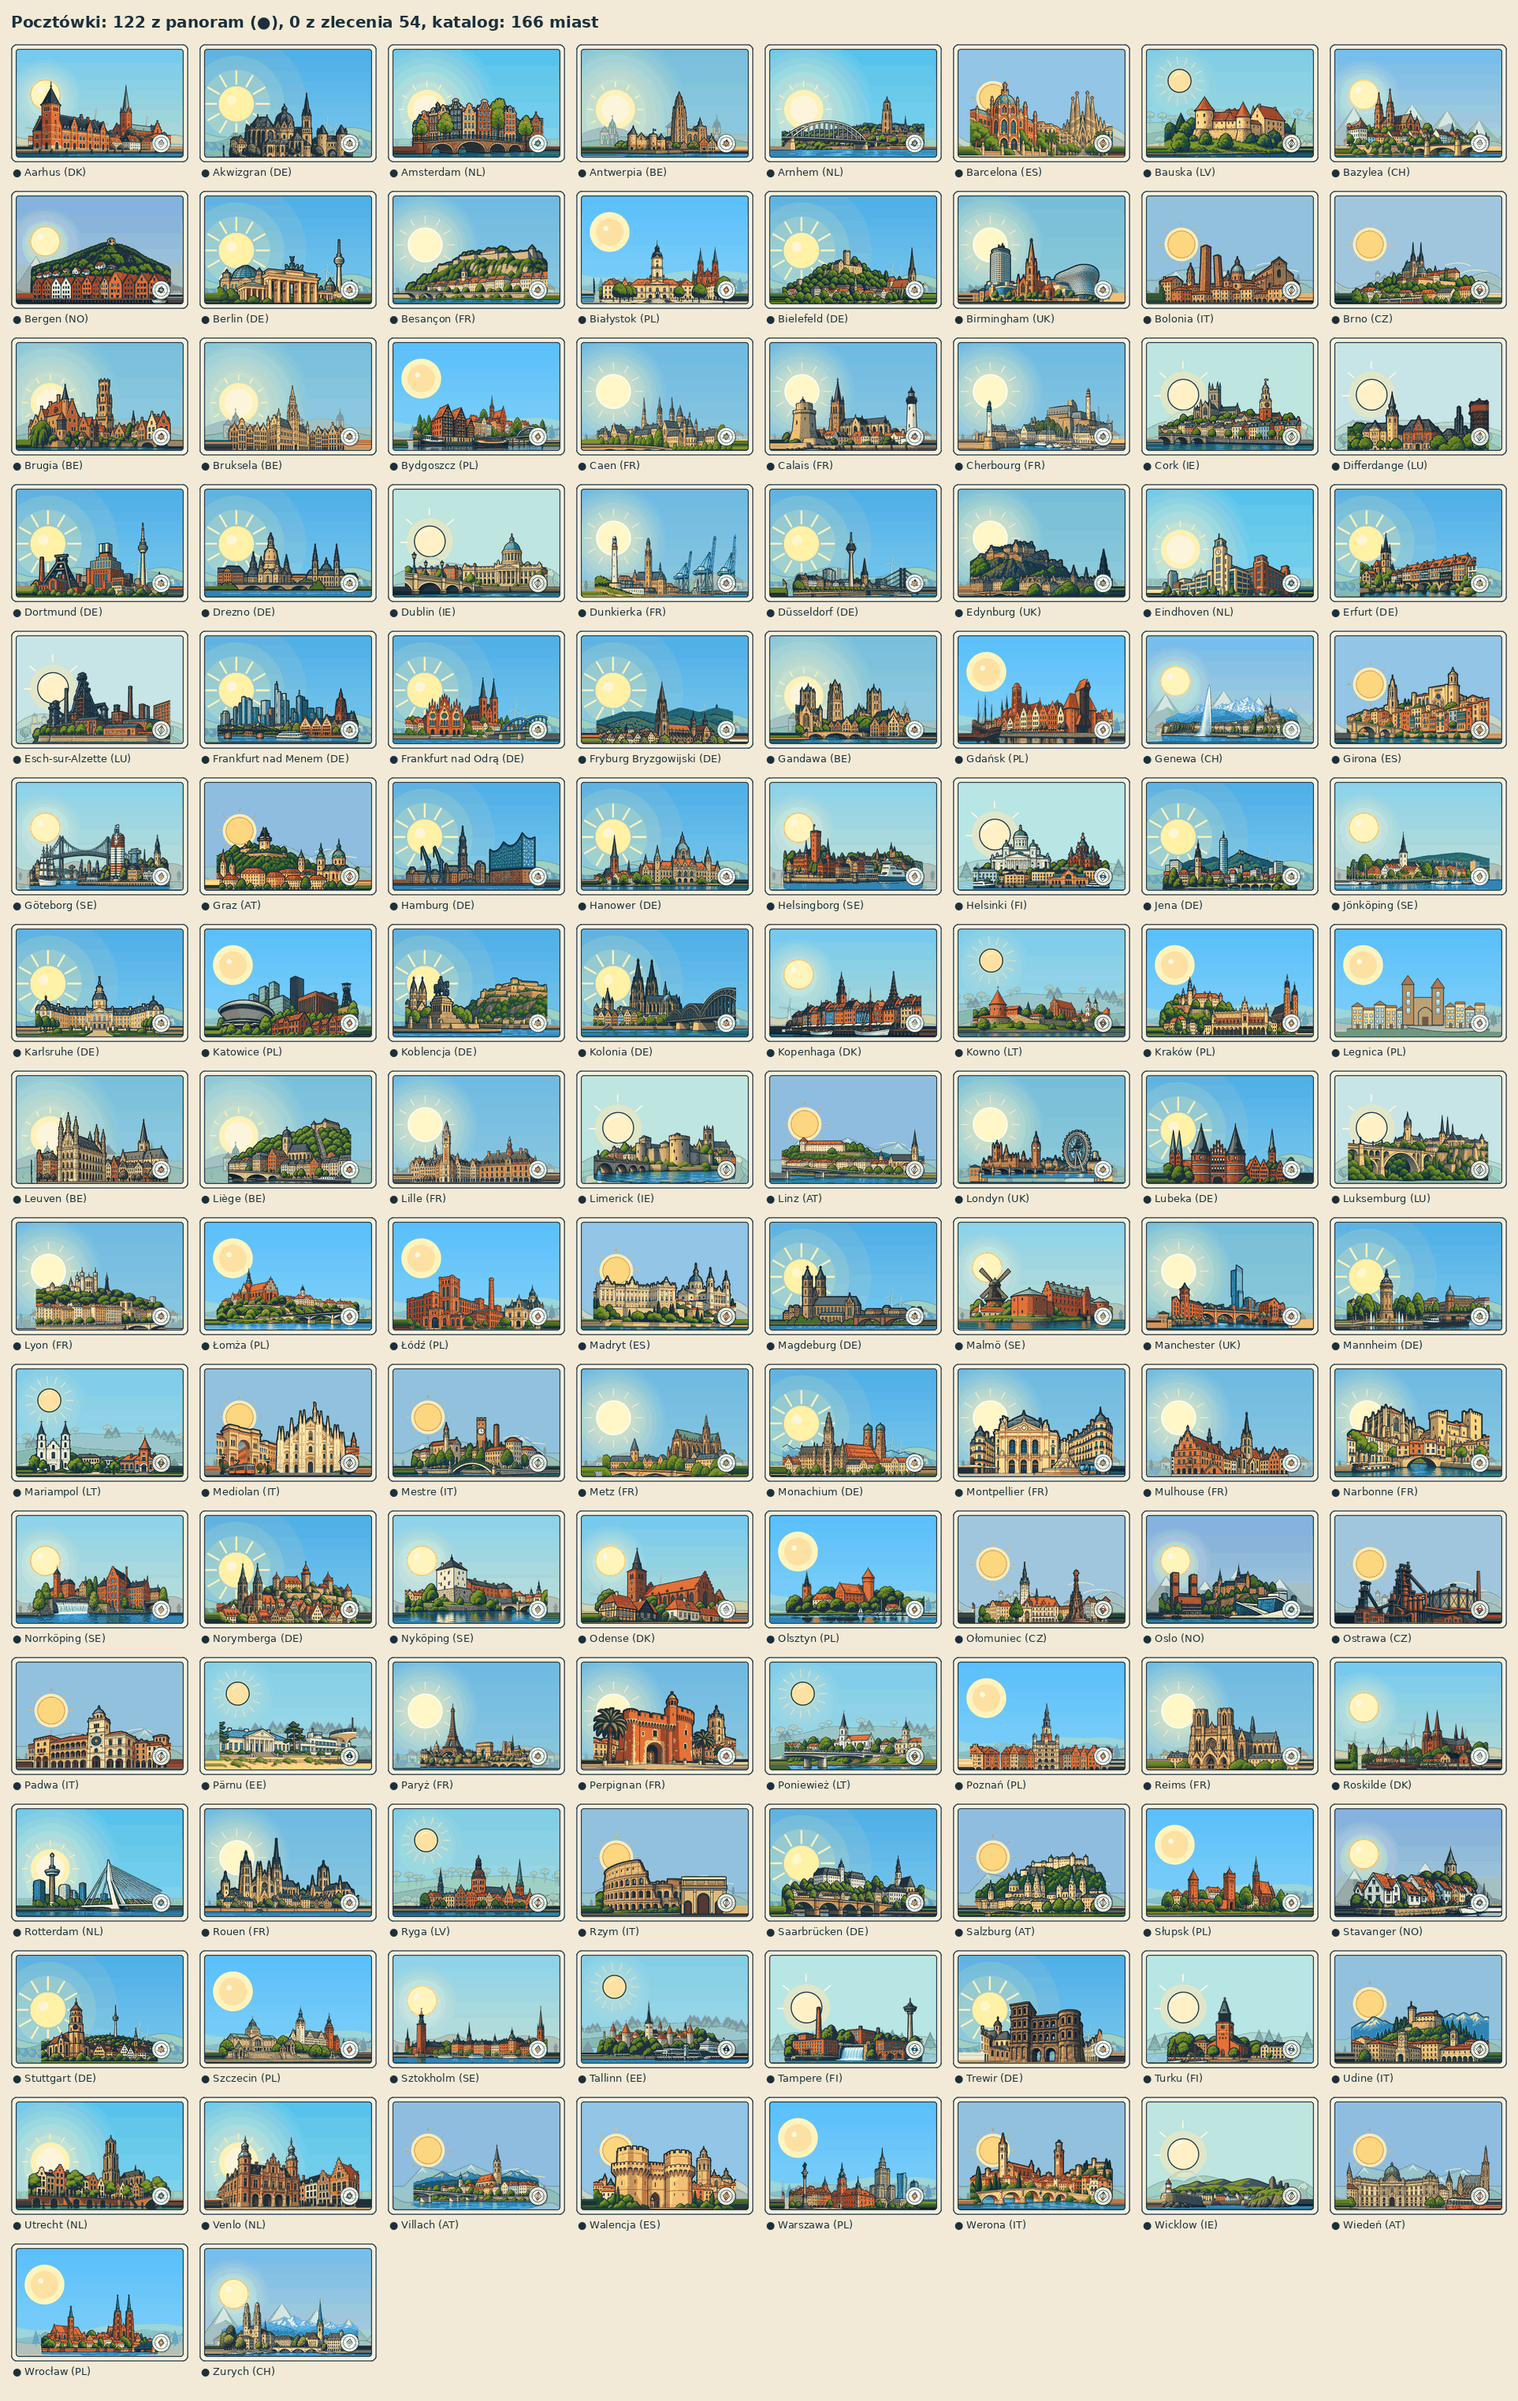
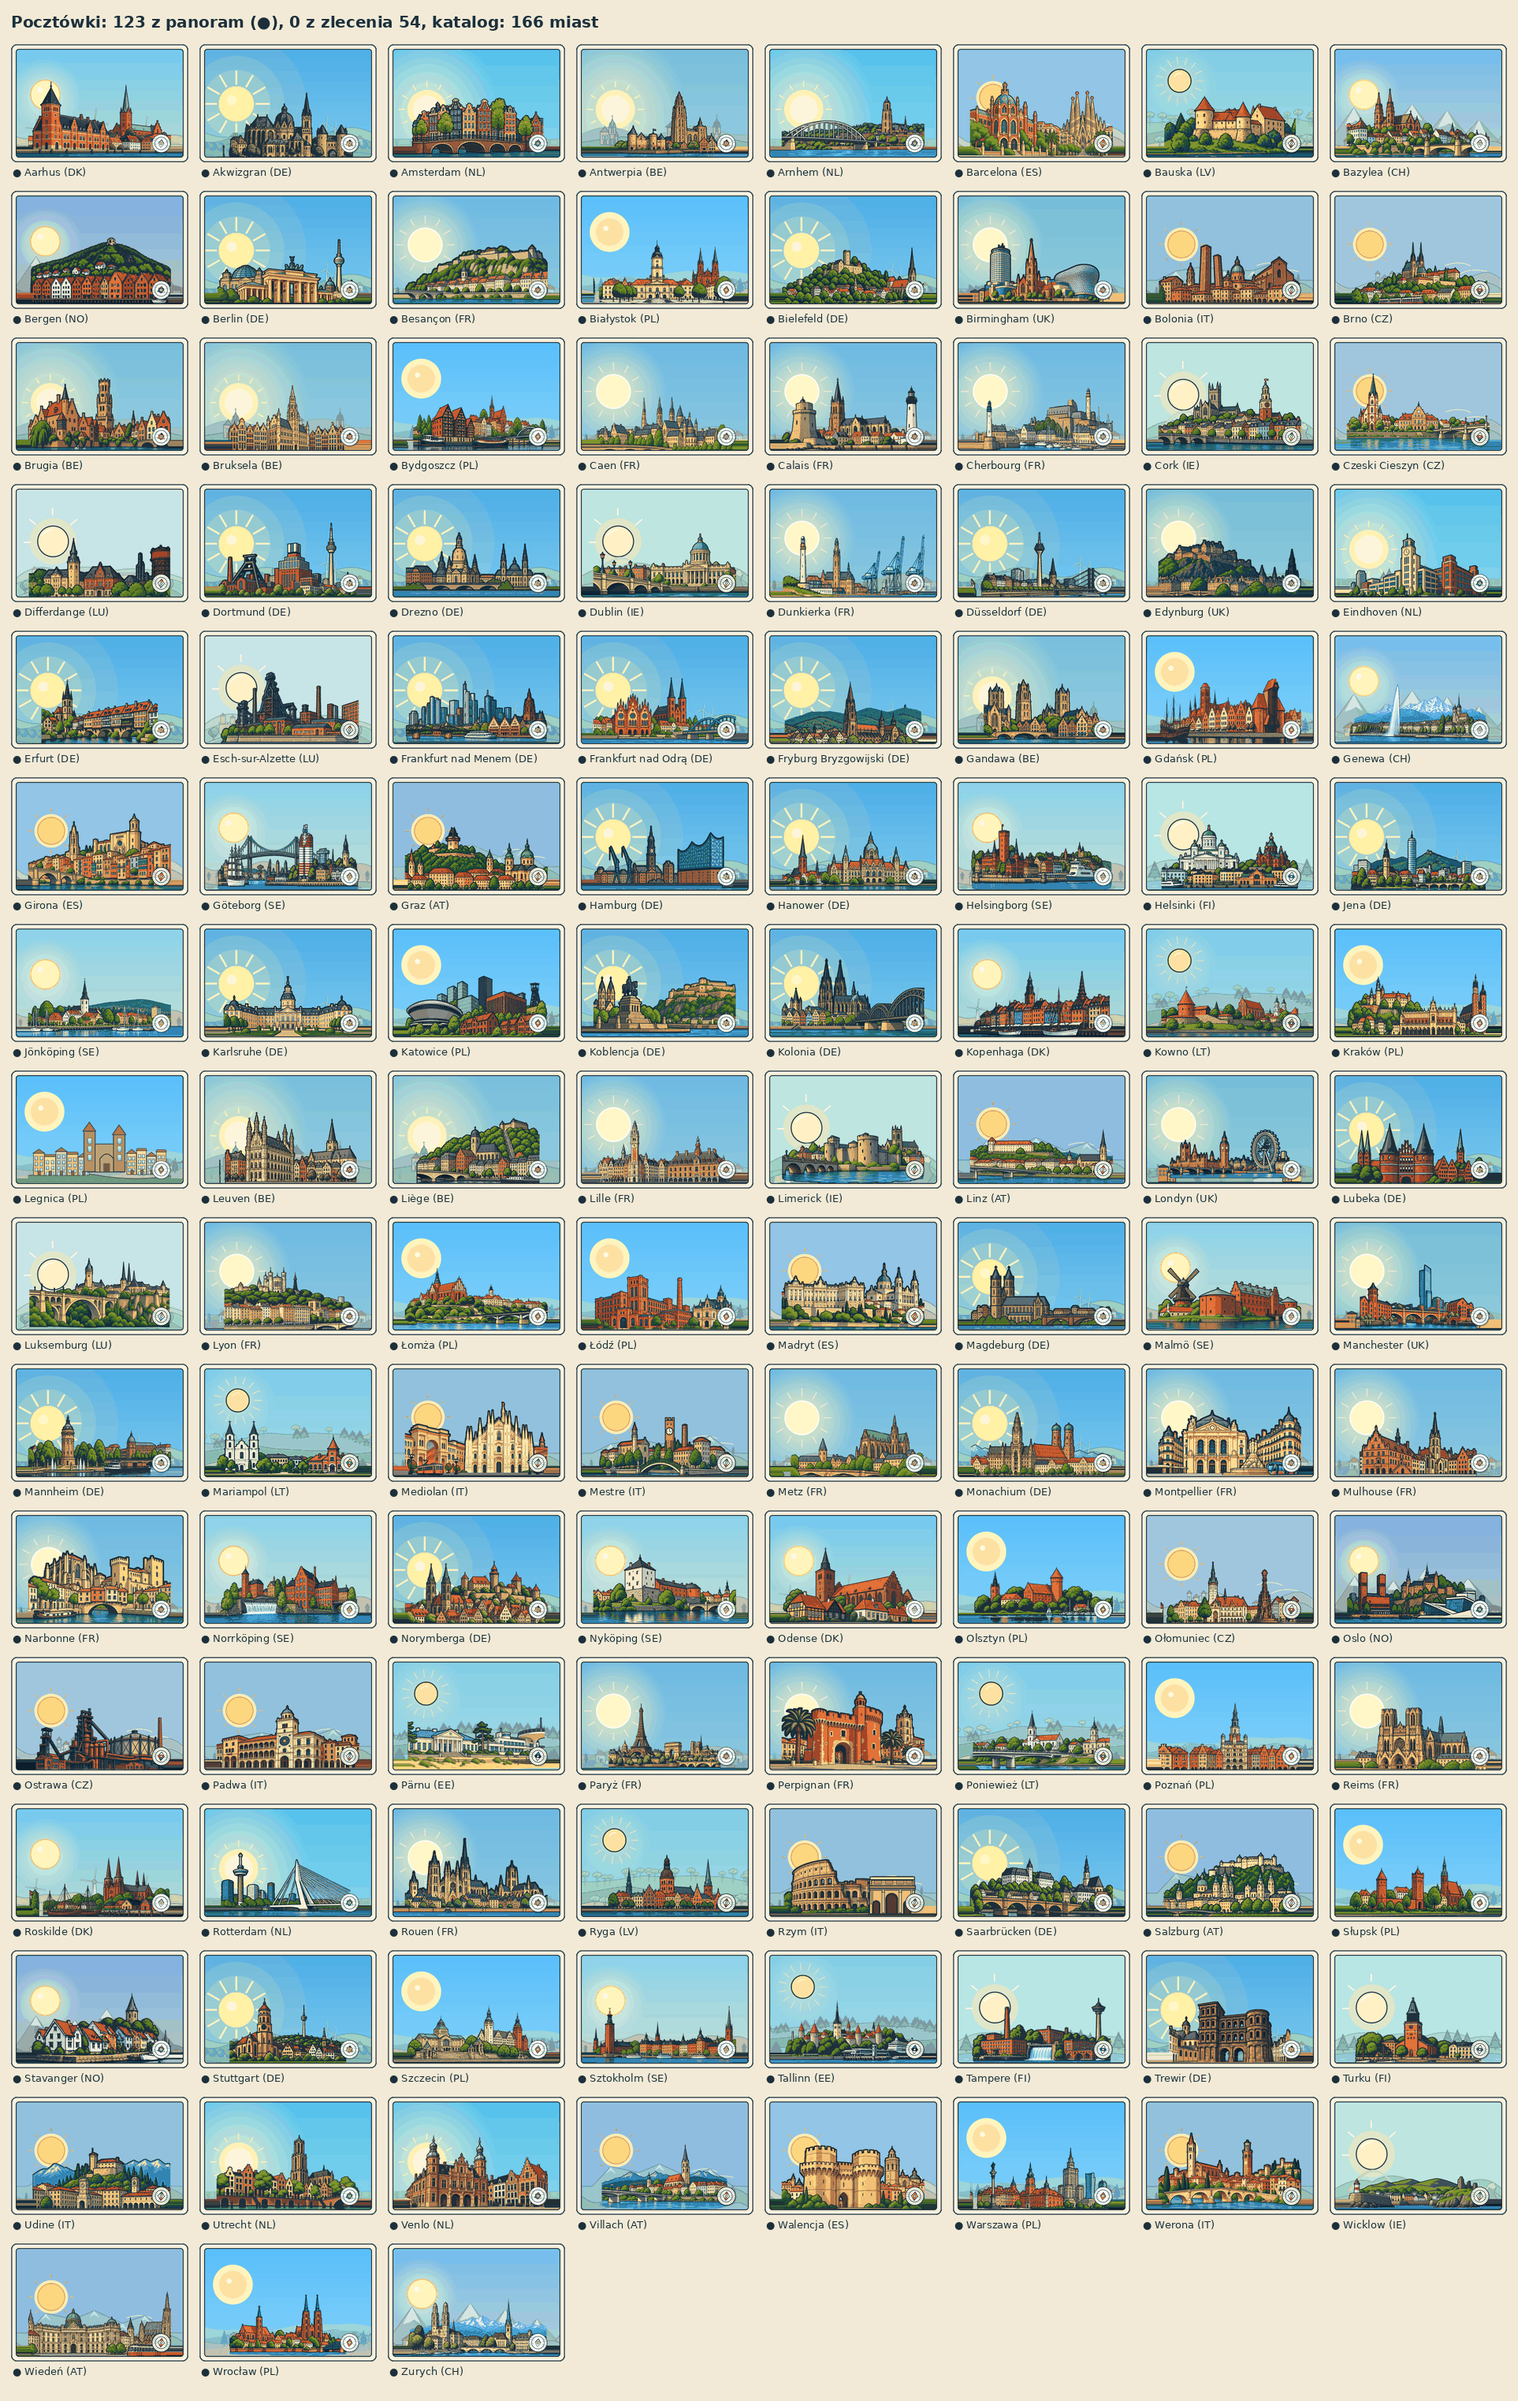
Zlecenie 104: panorama A+ Czeskiego Cieszyna (skwantyzowana), pocztówka, ASSETS
Claude-Session: https://claude.ai/code/session_019Hz8MzG8hZphbfbJye1RsS

diff --git a/public/assets/postcards/ASSETS.md b/public/assets/postcards/ASSETS.md
@@ -34,6 +34,7 @@ Złożone automatycznie (`npm run art:postcards`) wyłącznie z zasobów projekt
 | `calais.png` | `tools/art/postcards_from_panoramas.py` (styl 8) | Własna grafika projektu (pochodna zasobów projektu) | Calais (FR); panorama `landmarks/calais.png`, tło `countries/fr/fr-sky.png`, `countries/fr/fr-far.png`, `stamp-fr.png`. |
 | `cherbourg.png` | `tools/art/postcards_from_panoramas.py` (styl 8) | Własna grafika projektu (pochodna zasobów projektu) | Cherbourg (FR); panorama `landmarks/cherbourg.png`, tło `countries/fr/fr-sky.png`, `countries/fr/fr-far.png`, `stamp-fr.png`. |
 | `cork.png` | `tools/art/postcards_from_panoramas.py` (styl 8) | Własna grafika projektu (pochodna zasobów projektu) | Cork (IE); panorama `landmarks/cork.png`, tło `countries/ie/ie-sky.png`, `countries/ie/ie-far.png`, znaczek zastępczy rysowany w skrypcie. |
+| `cesky-tesin.png` | `tools/art/postcards_from_panoramas.py` (styl 8) | Własna grafika projektu (pochodna zasobów projektu) | Czeski Cieszyn (CZ); panorama `landmarks/cesky-tesin.png`, tło `countries/cz/cz-sky.png`, `countries/cz/cz-far.png`, znaczek zastępczy rysowany w skrypcie. |
 | `differdange.png` | `tools/art/postcards_from_panoramas.py` (styl 8) | Własna grafika projektu (pochodna zasobów projektu) | Differdange (LU); panorama `landmarks/differdange.png`, tło `countries/lu/lu-sky.png`, `countries/lu/lu-far.png`, znaczek zastępczy rysowany w skrypcie. |
 | `dortmund.png` | `tools/art/postcards_from_panoramas.py` (styl 8) | Własna grafika projektu (pochodna zasobów projektu) | Dortmund (DE); panorama `landmarks/dortmund.png`, tło `countries/de/de-sky.png`, `countries/de/de-far.png`, `stamp-de.png`. |
 | `drezno.png` | `tools/art/postcards_from_panoramas.py` (styl 8) | Własna grafika projektu (pochodna zasobów projektu) | Drezno (DE); panorama `landmarks/drezno.png`, tło `countries/de/de-sky.png`, `countries/de/de-far.png`, `stamp-de.png`. |

diff --git a/docs/zlecenia/runda7/README.md b/docs/zlecenia/runda7/README.md
@@ -49,3 +49,5 @@ Wszystkie 19 paczek wróciło i zostało wgranych (PNG skwantyzowane do 256 kolo
 | 100 | tak | #108 |
 | 101 | tak | #108 |
 | 102 | tak; krawędź asfaltu poprawiona na wiersz 152 | #108 |
+| 103 | tak; Nyköping przyjęty, Czeski Cieszyn odrzucony | #110 |
+| 104 | tak; Czeski Cieszyn A+ przyjęty (31.10) | #110 / następca |
